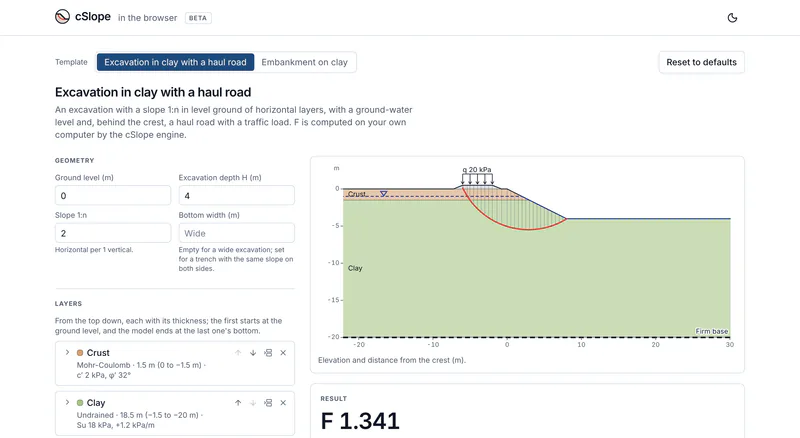
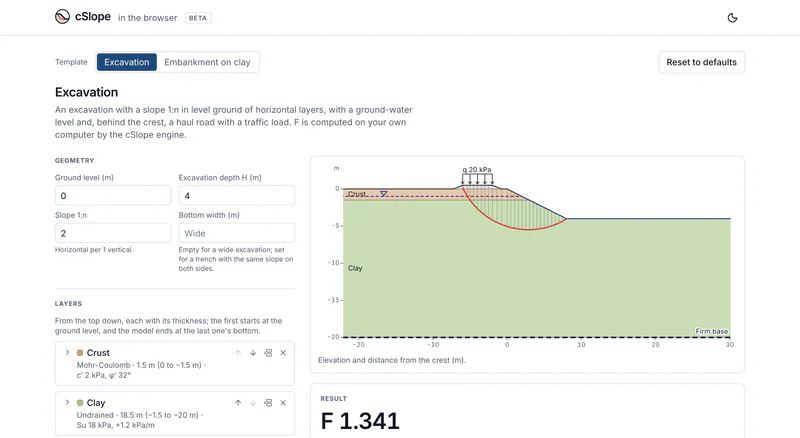
Web: call the excavation template "Excavation" and give it new defaults
The template picker, heading, page title and the model's name in the
downloaded .cslp now say "Excavation". The first visit and Reset to
defaults open a trench 3 m deep at 1:1, 2 m wide at the bottom: a crust
(Mohr-Coulomb, c' 15 kPa, phi' 0) over a clay (Su 18 kPa + 1.2 kPa/m)
over sand to -8.5 m, water at -1 m, and a haul road 0.3 m high, 4 m wide,
1 m behind the crest, traffic 20 kPa (F 1.240, was 1.486). Links that
carry the layers keep their meaning (every field is in them); tests pin
the earlier defaults' link and a link with a few fields.

The defaults' sand ends 0.5 m short of 3H, so the form notes the base;
the depth test now deepens every example, the defaults too (F unchanged).
Fixtures regenerated with write-fixtures.ts; docs, changelog and the home
page's browser screenshot (recaptured at SITE.appExample, F 1.341) follow.

Claude-Session: https://claude.ai/code/session_01BL3SnYT7y9qgZYwTFmy79Q

Changed region(s): [[0.1562, 0.1187, 0.4375, 0.2374]]

diff --git a/packages/web/src/App.test.tsx b/packages/web/src/App.test.tsx
@@ -105,12 +105,14 @@ beforeEach(() => {
 describe("App", () => {
   it("opens the excavation's defaults complete and computes F at once, the haul road on", async () => {
     const { requests } = renderApp();
-    expect(screen.getByRole("heading", { level: 1, name: "Excavation in clay with a haul road" })).toBeInTheDocument();
+    expect(screen.getByRole("heading", { level: 1, name: "Excavation" })).toBeInTheDocument();
     expect(screen.getByRole("checkbox", { name: "Haul road behind the crest" })).toBeChecked();
-    expect(screen.getByRole("button", { name: /^Dry crust/ })).toHaveTextContent("Undrained · 1 m (0 to −1 m) · Su 30 kPa");
-    expect(screen.getByRole("button", { name: /^Sand and gravel/ })).toHaveTextContent("Mohr-Coulomb · 5 m (−4 to −9 m) · c′ 0 kPa, φ′ 35°");
-    expect(field("Excavation depth H (m)").value).toBe("2.5");
-    expect(field("Slope 1:n").value).toBe("2");
+    expect(screen.getByRole("button", { name: /^Crust/ })).toHaveTextContent("Mohr-Coulomb · 1.5 m (0 to −1.5 m) · c′ 15 kPa, φ′ 0°");
+    expect(screen.getByRole("button", { name: /^Clay/ })).toHaveTextContent("Undrained · 2 m (−1.5 to −3.5 m) · Su 18 kPa, +1.2 kPa/m");
+    expect(screen.getByRole("button", { name: /^Sand/ })).toHaveTextContent("Mohr-Coulomb · 5 m (−3.5 to −8.5 m) · c′ 0 kPa, φ′ 38°");
+    expect(field("Excavation depth H (m)").value).toBe("3");
+    expect(field("Slope 1:n").value).toBe("1");
+    expect(field("Bottom width (m)").value).toBe("2");
     // No field is empty: it runs by itself, with the defaults' document.
     await waitFor(() => expect(requests).toHaveLength(1));
     expect(requests[0].document).toEqual(excavationDocument(EXCAVATION_DEFAULTS));
@@ -124,15 +126,15 @@ describe("App", () => {
     fireEvent.change(field("Excavation depth H (m)"), { target: { value: "3.5" } });
     expect(field("Excavation depth H (m)").value).toBe("3.5");
     fireEvent.click(screen.getByRole("button", { name: "Reset to defaults" }));
-    expect(field("Excavation depth H (m)").value).toBe("2.5");
+    expect(field("Excavation depth H (m)").value).toBe("3");
     expect(screen.getByRole("checkbox", { name: "Haul road behind the crest" })).toBeChecked();
-    expect(screen.getByRole("button", { name: /^Dry crust/ })).toHaveTextContent("Undrained · 1 m (0 to −1 m) · Su 30 kPa");
+    expect(screen.getByRole("button", { name: /^Crust/ })).toHaveTextContent("Mohr-Coulomb · 1.5 m (0 to −1.5 m) · c′ 15 kPa, φ′ 0°");
   });
 
   it("asks for the empty strengths of a plain section without running", async () => {
     plain();
     const { requests } = renderApp();
-    expect(screen.getByRole("heading", { level: 1, name: "Excavation in clay with a haul road" })).toBeInTheDocument();
+    expect(screen.getByRole("heading", { level: 1, name: "Excavation" })).toBeInTheDocument();
     await flush();
     expect(screen.getByRole("status")).toHaveTextContent("To get F, fill in 2 empty fields.");
     expect(field("Su (kPa)").value).toBe("");
@@ -235,7 +237,7 @@ describe("App", () => {
   it("undoes a removed layer: back in its place with its values and its color, the focus on its header", async () => {
     const { requests } = renderApp();
     await waitFor(() => expect(requests).toHaveLength(1));
-    const names = () => screen.getAllByRole("button", { name: /^(Dry crust|Clay|Sand and gravel)/ }).map((b) => /^(Dry crust|Clay|Sand and gravel)/.exec(b.textContent ?? "")?.[0]);
+    const names = () => screen.getAllByRole("button", { name: /^(Crust|Clay|Sand)/ }).map((b) => /^(Crust|Clay|Sand)/.exec(b.textContent ?? "")?.[0]);
     // The clay, open, gets its own color and strength.
     fireEvent.click(screen.getByRole("button", { name: /^Clay/ }));
     fireEvent.click(screen.getByRole("button", { name: "Color" }));
@@ -244,15 +246,15 @@ describe("App", () => {
     await waitFor(() => expect(new URLSearchParams(window.location.search).get("layer2.su")).toBe("17"));
     const address = window.location.search;
     fireEvent.click(screen.getByRole("button", { name: "Remove Clay" }));
-    expect(names()).toEqual(["Dry crust", "Sand and gravel"]);
+    expect(names()).toEqual(["Crust", "Sand"]);
     // The message names the layer, with Undo, in the card's live region.
     const live = within(card()).getByText("Removed Clay.").closest("[aria-live]")!;
     expect(live).toHaveAttribute("aria-live", "polite");
     expect(live).toHaveTextContent("Removed Clay. Undo");
     fireEvent.click(within(card()).getByRole("button", { name: "Undo" }));
-    expect(names()).toEqual(["Dry crust", "Clay", "Sand and gravel"]);
+    expect(names()).toEqual(["Crust", "Clay", "Sand"]);
     const clay = screen.getByRole("button", { name: /^Clay/ });
-    expect(clay).toHaveTextContent("Undrained · 3 m (−1 to −4 m) · Su 17 kPa");
+    expect(clay).toHaveTextContent("Undrained · 2 m (−1.5 to −3.5 m) · Su 17 kPa, +1.2 kPa/m");
     expect(clay).toHaveAttribute("aria-expanded", "true");
     expect(screen.getByRole("button", { name: "Color" })).toHaveTextContent("Sienna");
     expect(document.activeElement).toBe(clay);
@@ -280,7 +282,7 @@ describe("App", () => {
     fireEvent.click(screen.getByRole("checkbox", { name: "Haul road behind the crest" }));
     fireEvent.click(screen.getByRole("button", { name: "+ Add layer" }));
     fireEvent.click(screen.getByRole("button", { name: "Reset to defaults" }));
-    expect(field("Excavation depth H (m)").value).toBe("2.5");
+    expect(field("Excavation depth H (m)").value).toBe("3");
     expect(screen.queryByRole("button", { name: /^Layer 4/ })).toBeNull();
     expect(within(card()).getByText("Reset to the template's defaults.").closest("[aria-live]")).toHaveTextContent("Reset to the template's defaults. Undo");
     fireEvent.click(within(card()).getByRole("button", { name: "Undo" }));
@@ -337,7 +339,7 @@ describe("App", () => {
     fireEvent.click(thumb);
     const sheet = screen.getByRole("dialog", { name: "Section" });
     expect(thumb).toHaveAttribute("aria-expanded", "true");
-    expect(within(sheet).getByRole("img")).toHaveAccessibleName(/^Section of the excavation: .*, and the critical surface of F 1\.234\.$/);
+    expect(within(sheet).getByRole("img")).toHaveAccessibleName(/^Section of the excavation, a trench 2 m wide at the bottom: .*, and the critical surface of F 1\.234\.$/);
     expect(within(sheet).getByText("F 1.234")).toBeInTheDocument();
     // The focus is on Close and stays in the sheet; Escape closes it and gives the focus back to the picture.
     const close = within(sheet).getByRole("button", { name: "Close" });
@@ -595,7 +597,7 @@ describe("App", () => {
     fireEvent.click(button);
     await waitFor(() => expect(files).toHaveLength(1));
     // The document that ran, its result, and the template's title as the model's name.
-    expect(writeProject).toHaveBeenCalledWith(requests[0].document, { criticalSlices: [] }, "Excavation in clay with a haul road");
+    expect(writeProject).toHaveBeenCalledWith(requests[0].document, { criticalSlices: [] }, "Excavation");
     expect(files[0].name).toBe("cslope-excavation.cslp");
     expect(files[0].blob.type).toBe("application/zip");
     expect(new Uint8Array(await files[0].blob.arrayBuffer())).toEqual(new Uint8Array([0x50, 0x4b, 3, 4]));
@@ -609,7 +611,7 @@ describe("App", () => {
     await waitFor(() => expect(requests).toHaveLength(1));
     fireEvent.click(screen.getByRole("button", { name: "Download .cslp" }));
     await waitFor(() => expect(files).toHaveLength(1));
-    expect(writeProject).toHaveBeenCalledWith(requests[0].document, null, "Excavation in clay with a haul road");
+    expect(writeProject).toHaveBeenCalledWith(requests[0].document, null, "Excavation");
     expect(await screen.findByText("Downloaded without a result: F is not computed yet.")).toBeInTheDocument();
   });
 
@@ -619,7 +621,7 @@ describe("App", () => {
     const { requests, writeProject } = renderApp({ answer: (r) => (answer ? complete(r) : null) });
     expect(await within(card()).findByText("F 1.234")).toBeInTheDocument();
     answer = false;
-    type("Excavation depth H (m)", "3");
+    type("Excavation depth H (m)", "3.5");
     fireEvent.click(screen.getByRole("button", { name: "Download .cslp" }));
     await waitFor(() => expect(writeProject).toHaveBeenCalledOnce());
     const [doc, result] = vi.mocked(writeProject).mock.calls[0];
@@ -653,11 +655,11 @@ describe("App", () => {
     plain();
     const { requests } = renderApp();
     const picker = screen.getByRole("group", { name: "Template" });
-    const excavation = within(picker).getByRole("button", { name: "Excavation in clay with a haul road" });
+    const excavation = within(picker).getByRole("button", { name: "Excavation" });
     const embankment = within(picker).getByRole("button", { name: "Embankment on clay" });
     expect(excavation).toHaveAttribute("aria-pressed", "true");
     expect(embankment).toHaveAttribute("aria-pressed", "false");
-    expect(document.title).toBe("Excavation in clay with a haul road — cSlope");
+    expect(document.title).toBe("Excavation — cSlope");
     type("Excavation depth H (m)", "4");
     fireEvent.click(embankment);
     expect(screen.getByRole("heading", { level: 1, name: "Embankment on clay" })).toBeInTheDocument();
@@ -683,7 +685,7 @@ describe("App", () => {
     expect(await within(card()).findByText("F 1.234")).toBeInTheDocument();
     expect(screen.getByRole("img", { name: /^Section of the embankment: 1 layer, a load of 10 kPa on the crest, and the critical surface of F 1.234\.$/ })).toBeInTheDocument();
     // Back to the excavation as it was left.
-    fireEvent.click(within(picker).getByRole("button", { name: "Excavation in clay with a haul road" }));
+    fireEvent.click(within(picker).getByRole("button", { name: "Excavation" }));
     expect(field("Excavation depth H (m)").value).toBe("4");
   });
 

diff --git a/packages/web/src/form/draft.test.ts b/packages/web/src/form/draft.test.ts
@@ -24,9 +24,9 @@ describe("the form's state", () => {
     const first = initialDraft();
     expect(first.on).toEqual(["road"]);
     expect(first.layers.map((l) => [l.name, l.kind, l.thickness])).toEqual([
-      ["Dry crust", "undrained", "1"],
-      ["Clay", "undrained", "3"],
-      ["Sand and gravel", "mohr-coulomb", "5"],
+      ["Crust", "mohr-coulomb", "1.5"],
+      ["Clay", "undrained", "2"],
+      ["Sand", "mohr-coulomb", "5"],
     ]);
     const f = formState(first);
     expect(f.missing).toEqual([]);
@@ -221,6 +221,49 @@ describe("the form's state", () => {
     d.layers[1].thickness = "18.5";
     d.fields.groundLevel = "2000";
     expect([...formState(d).errors.keys()]).toEqual(["groundLevel"]);
+  });
+
+  it("opens the bare excavation link at the defaults, the same section as the defaults' full link", () => {
+    const full =
+      "t=excavation&ground=0&H=3&slope=1&bottomWidth=2&water=-1&layers=3" +
+      "&layer1.name=Crust&layer1.kind=mohr-coulomb&layer1.t=1.5&layer1.gamma=18&layer1.c=15&layer1.phi=0" +
+      "&layer2.name=Clay&layer2.kind=undrained&layer2.t=2&layer2.gamma=16.5&layer2.su=18&layer2.suRate=1.2" +
+      "&layer3.name=Sand&layer3.kind=mohr-coulomb&layer3.t=5&layer3.gamma=20&layer3.c=0&layer3.phi=38" +
+      "&road=on&road.distanceFromCrest=1&road.width=4&road.height=0.3&road.gamma=20&road.c=0&road.phi=38&road.trafficLoad=20";
+    expect(toQuery(fromQuery("?t=excavation"))).toBe(full);
+    expect(formState(fromQuery("?" + full)).params).toEqual(EXCAVATION_DEFAULTS);
+    expect(formState(fromQuery("?t=excavation")).params).toEqual(EXCAVATION_DEFAULTS);
+  });
+
+  it("keeps the meaning of links shared before the defaults changed: a link with layers says every field", () => {
+    // The page's address at the earlier defaults: the same section today.
+    const before =
+      "?t=excavation&ground=0&H=2.5&slope=2&layers=3" +
+      "&layer1.name=Dry+crust&layer1.kind=undrained&layer1.t=1&layer1.gamma=17&layer1.su=30" +
+      "&layer2.name=Clay&layer2.kind=undrained&layer2.t=3&layer2.gamma=17&layer2.su=15" +
+      "&layer3.name=Sand+and+gravel&layer3.kind=mohr-coulomb&layer3.t=5&layer3.gamma=22&layer3.c=0&layer3.phi=35" +
+      "&road=on&road.distanceFromCrest=1&road.width=4&road.height=0.3&road.gamma=18&road.c=0&road.phi=39&road.trafficLoad=15";
+    const earlier: ExcavationParams = {
+      groundLevel: 0,
+      excavationDepth: 2.5,
+      slope: 2,
+      bottomWidth: null,
+      layers: [
+        { name: "Dry crust", bottomLevel: -1, material: { kind: "undrained", gamma: 17, su: 30 } },
+        { name: "Clay", bottomLevel: -4, material: { kind: "undrained", gamma: 17, su: 15 } },
+        { name: "Sand and gravel", bottomLevel: -9, material: { kind: "drained", gamma: 22, c: 0, phi: 35 } },
+      ],
+      waterLevel: null,
+      road: { distanceFromCrest: 1, width: 4, height: 0.3, fill: { gamma: 18, c: 0, phi: 39 }, trafficLoad: 15 },
+    };
+    expect("?" + toQuery(draftOf("excavation", earlier))).toBe(before);
+    expect(formState(fromQuery(before)).params).toEqual(earlier);
+    // A link with a few fields: the others stay empty (none is taken from the defaults), the road off.
+    const few = fromQuery("?t=excavation&H=4&layers=1&layer1.kind=undrained&layer1.t=10&layer1.su=20");
+    expect(few.fields).toEqual({ groundLevel: "", excavationDepth: "4", slope: "", bottomWidth: "", waterLevel: "" });
+    expect(few.on).toEqual([]);
+    expect(few.layers.map((l) => [l.thickness, l.gamma, l.su, l.suRate])).toEqual([["10", "", "20", ""]]);
+    expect(formState(few).missing).toEqual(["groundLevel", "slope", "layers.0.gamma"]);
   });
 
   it("opens an unknown template as the excavation", () => {

diff --git a/packages/web/scripts/smoke.ts b/packages/web/scripts/smoke.ts
@@ -223,8 +223,8 @@ async function checkPage(page: Page, base: string): Promise<string[]> {
         return el && el.textContent !== b && !el.closest(".opacity-50");
       }, before, { timeout: 30_000 });
       console.log(`  embankment, crust moved below the clay: ${before} → ${await fValue(page).textContent()}`);
-      await page.getByRole("button", { name: "Excavation in clay with a haul road" }).click();
-      await page.getByRole("heading", { level: 1, name: "Excavation in clay with a haul road" }).waitFor({ timeout: 5_000 });
+      await page.getByRole("button", { name: "Excavation", exact: true }).click();
+      await page.getByRole("heading", { level: 1, name: "Excavation", exact: true }).waitFor({ timeout: 5_000 });
       await page.waitForFunction(() => new URLSearchParams(location.search).get("t") === "excavation", null, { timeout: 5_000 });
     } catch (e) {
       problems.push(`the embankment: "${await page.getByRole("status").first().textContent()}" (${e instanceof Error ? e.message.split("\n")[0] : String(e)})`);
@@ -364,7 +364,7 @@ async function checkProjectDownload(browser: Browser, base: string): Promise<str
     if (opened.status !== 0) problems.push(`the app's reader could not open it: ${out}`);
     const want = `F = ${EXPECTED["clay-5m-ponded"].fos.toFixed(3)}`;
     if (!out.includes(want) || !out.includes("input unchanged")) problems.push(`the app's reader says:\n${out}\n(expected "${want}" and "input unchanged")`);
-    if (!/model model-1 \(active\): "Excavation in clay with a haul road", \d+ ground points, 2 material\(s\)/.test(out)) problems.push(`the model is not the section: ${out}`);
+    if (!/model model-1 \(active\): "Excavation", \d+ ground points, 2 material\(s\)/.test(out)) problems.push(`the model is not the section: ${out}`);
     console.log(`  ${out.split("\n").filter((l) => /result:|model /.test(l)).map((l) => l.trim()).join("; ")}`);
   } catch (e) {
     problems.push(`the download: ${e instanceof Error ? e.message.split("\n")[0] : String(e)}`);

diff --git a/packages/web/src/templates/excavation-examples.ts b/packages/web/src/templates/excavation-examples.ts
@@ -9,23 +9,24 @@ import type { ExcavationParams } from "./excavation";
 
 /**
  * The first visit of the excavation: a complete section, so that the page
- * computes F at once. Typical values: a 2.5 m cut at 1:2 through a dry
- * crust and a soft clay into sand and gravel, which reaches below 3H
- * (no shallow-base note), and a low haul road with traffic 1 m
- * behind the crest; dry.
+ * computes F at once. A trench 3 m deep, 2 m wide at the bottom, with
+ * sides 1:1, through a crust (Mohr-Coulomb, c′ 15 kPa, φ′ 0) and a clay
+ * with Su growing with depth into sand, down to 8.5 m (less than 3H: the
+ * form notes the base); the water 1 m down, and a low haul road with
+ * traffic 1 m behind the crest.
  */
 export const EXCAVATION_DEFAULTS: ExcavationParams = {
   groundLevel: 0,
-  excavationDepth: 2.5,
-  slope: 2,
-  bottomWidth: null,
+  excavationDepth: 3,
+  slope: 1,
+  bottomWidth: 2,
   layers: [
-    { name: "Dry crust", bottomLevel: -1, material: { kind: "undrained", gamma: 17, su: 30 } },
-    { name: "Clay", bottomLevel: -4, material: { kind: "undrained", gamma: 17, su: 15 } },
-    { name: "Sand and gravel", bottomLevel: -9, material: { kind: "drained", gamma: 22, c: 0, phi: 35 } },
+    { name: "Crust", bottomLevel: -1.5, material: { kind: "drained", gamma: 18, c: 15, phi: 0 } },
+    { name: "Clay", bottomLevel: -3.5, material: { kind: "undrained-increasing", gamma: 16.5, su: 18, suRate: 1.2 } },
+    { name: "Sand", bottomLevel: -8.5, material: { kind: "drained", gamma: 20, c: 0, phi: 38 } },
   ],
-  waterLevel: null,
-  road: { distanceFromCrest: 1, width: 4, height: 0.3, fill: { gamma: 18, c: 0, phi: 39 }, trafficLoad: 15 },
+  waterLevel: -1,
+  road: { distanceFromCrest: 1, width: 4, height: 0.3, fill: { gamma: 20, c: 0, phi: 38 }, trafficLoad: 20 },
 };
 
 export const EXCAVATION_EXAMPLES: Record<string, ExcavationParams> = {

diff --git a/packages/web/src/templates/excavation.test.ts b/packages/web/src/templates/excavation.test.ts
@@ -554,10 +554,11 @@ function deepened(params: ExcavationParams): AnalysisDocument {
 }
 
 describe("the model's depth", () => {
-  // Only where the last layer reaches the recommended depth: a shallower firm base is the user's (a note says so).
-  const deepEnough = Object.entries(EXCAVATION_EXAMPLES).filter(([, p]) => !excavationNotes(p).some((n) => n.startsWith("The model ends")));
-  it("covers every example", () => expect(deepEnough).toHaveLength(Object.keys(EXCAVATION_EXAMPLES).length));
-  for (const [name, params] of deepEnough) {
+  // The examples reach the recommended depth, but for the first visit's: its sand ends at −8.5 m, 0.5 m short of 3H (the
+  // maintainer's values; the form notes it). Every example, that one too, is deepened: F does not change.
+  const shallow = Object.entries(EXCAVATION_EXAMPLES).filter(([, p]) => excavationNotes(p).some((n) => n.startsWith("The model ends")));
+  it("reaches the recommended depth in every example but the first visit's", () => expect(shallow.map(([name]) => name)).toEqual(["defaults"]));
+  for (const [name, params] of Object.entries(EXCAVATION_EXAMPLES)) {
     it(`${name}: twice as deep, F does not change beyond 1e-3`, async () => {
       const own = (await runDocument(excavationDocument(params))).summary.fos!;
       const deep = (await runDocument(deepened(params))).summary.fos!;

diff --git a/packages/desktop/src/features/project/web-project.test.ts b/packages/desktop/src/features/project/web-project.test.ts
@@ -46,7 +46,7 @@ function pageRun(doc: WebDocument) {
 /** The page's download (packages/web, src/engine/project.ts). */
 function download(doc: WebDocument, result: ReturnType<typeof pageRun> | null) {
   return projectFromDefinition(doc.definition, result, {
-    name: "Excavation in clay with a haul road",
+    name: "Excavation",
     options: doc.options,
     date: "2026-11-07",
     modified: "2026-11-07T12:00:00.000Z",
@@ -75,7 +75,7 @@ describe("a project downloaded from the browser page", () => {
       expect(read.file.models).toHaveLength(1);
       const [model] = read.file.models;
       expect(read.file.activeModelId).toBe(model.id);
-      expect(model.name).toBe("Excavation in clay with a haul road");
+      expect(model.name).toBe("Excavation");
       expect(model.coordinates).toEqual(doc.definition.coordinates);
       expect(model.materials.map((m) => [m.name, m.color])).toEqual(coloured.definition.materials.map((m) => [m.name, m.color]));
       expect(model.options.tensionCrackAuto).toBe(doc.options.tensionCrackAuto);

diff --git a/packages/website/src/pages/Home.tsx b/packages/website/src/pages/Home.tsx
@@ -118,7 +118,7 @@ function WebApp() {
           <p className="text-sm font-semibold text-primary">In the browser</p>
           <h2 className="mt-2 text-2xl font-semibold tracking-tight sm:text-3xl">Two templates to try without installing</h2>
           <p className="mt-3 leading-relaxed text-muted-foreground text-pretty">
-            An excavation in clay with a haul road, and an embankment on clay. Fill in the form and the cSlope engine
+            An excavation with a haul road, and an embankment on clay. Fill in the form and the cSlope engine
             computes F on your own computer.
           </p>
           <Button asChild size="lg" className="mt-6">

diff --git a/packages/web/src/form/specs.ts b/packages/web/src/form/specs.ts
@@ -106,7 +106,7 @@ export const excavationSpec: FormSpec<ExcavationParams> = {
         label: "Haul road behind the crest",
         title: "A fill on the ground behind the crest, with its own material and an optional traffic load.",
         // The first visit's road (EXCAVATION_DEFAULTS).
-        initial: { "road.distanceFromCrest": "1", "road.width": "4", "road.height": "0.3", "road.gamma": "18", "road.c": "0", "road.phi": "39", "road.trafficLoad": "15" },
+        initial: { "road.distanceFromCrest": "1", "road.width": "4", "road.height": "0.3", "road.gamma": "20", "road.c": "0", "road.phi": "38", "road.trafficLoad": "20" },
       },
     },
   ],

diff --git a/packages/website/src/pages/Download.tsx b/packages/website/src/pages/Download.tsx
@@ -73,7 +73,7 @@ export function Download() {
                 <h2 className="font-medium">In the browser</h2>
               </div>
               <p className="mt-2 text-sm text-muted-foreground">
-                Two templates, an excavation in clay with a haul road and an embankment on clay, analyzed on
+                Two templates, an excavation with a haul road and an embankment on clay, analyzed on
                 your own computer without installing anything.
               </p>
               <a

diff --git a/packages/web/src/templates/excavation.ts b/packages/web/src/templates/excavation.ts
@@ -373,7 +373,7 @@ export function excavationDocument(params: ExcavationParams): AnalysisDocument {
 
 export const excavationTemplate: Template<ExcavationParams> = {
   id: "excavation",
-  title: "Excavation in clay with a haul road",
+  title: "Excavation",
   description:
     "An excavation with a slope 1:n in level ground of horizontal layers, with a ground-water level and, behind the crest, a haul road with a traffic load.",
   params: EXCAVATION_PARAMETERS,

diff --git a/CHANGELOG.md b/CHANGELOG.md
@@ -162,6 +162,7 @@ The first public release.
 - In the browser: while the layers cannot be built (a thickness empty or wrong, a removed layer leaving the rest invalid), the drawing shows only the section's outline, greyed, with "Fix the layers to draw the section." instead of the last layers; "Open in cSlope" is "Get the cSlope app"; the phone's result bar says "Minimum factor of safety" as the card does; an undrained Su must be more than 0; after a layer is moved to the top or the bottom the focus goes to its other move button; the γ fields say to enter the saturated unit weight below the water level.
 - In the browser: a removed layer or a reset to the defaults can be undone from the message that reports it (on a phone, a notice above the result bar); the drawing shows the model's whole depth with its firm base dashed; on a phone the result bar has a thumbnail of the section that opens the drawing full screen.
 - In the browser, **Download .cslp** saves the section as a cSlope project, which the app opens with the model (its layers in their colors, the template's options) and the page's result, current; the app's own run gives the same F. A result that is not yet the section's (the analysis running, a change before its run) is left out, and the page says so. The engine's project writer is a WebAssembly module of its own (about 2.1 MB, 0.4 MB compressed), loaded only when a project is downloaded, so the engine stays within its 4 MB budget.
+- In the browser, the excavation template is called **Excavation**, also in the downloaded project. It opens with new typical values: a trench 3 m deep at 1:1, 2 m wide at the bottom, through a crust (Mohr-Coulomb, c′ 15 kPa, φ′ 0°) over a clay with Su increasing with depth over sand, the water 1 m below the ground, and a haul road with a traffic load of 20 kPa 1 m behind the crest (F 1.240). A link with the layers in it opens the same section as before; only a link without them (app.cslope.com, ?t=excavation) opens the new values.
 
 ### Python
 
